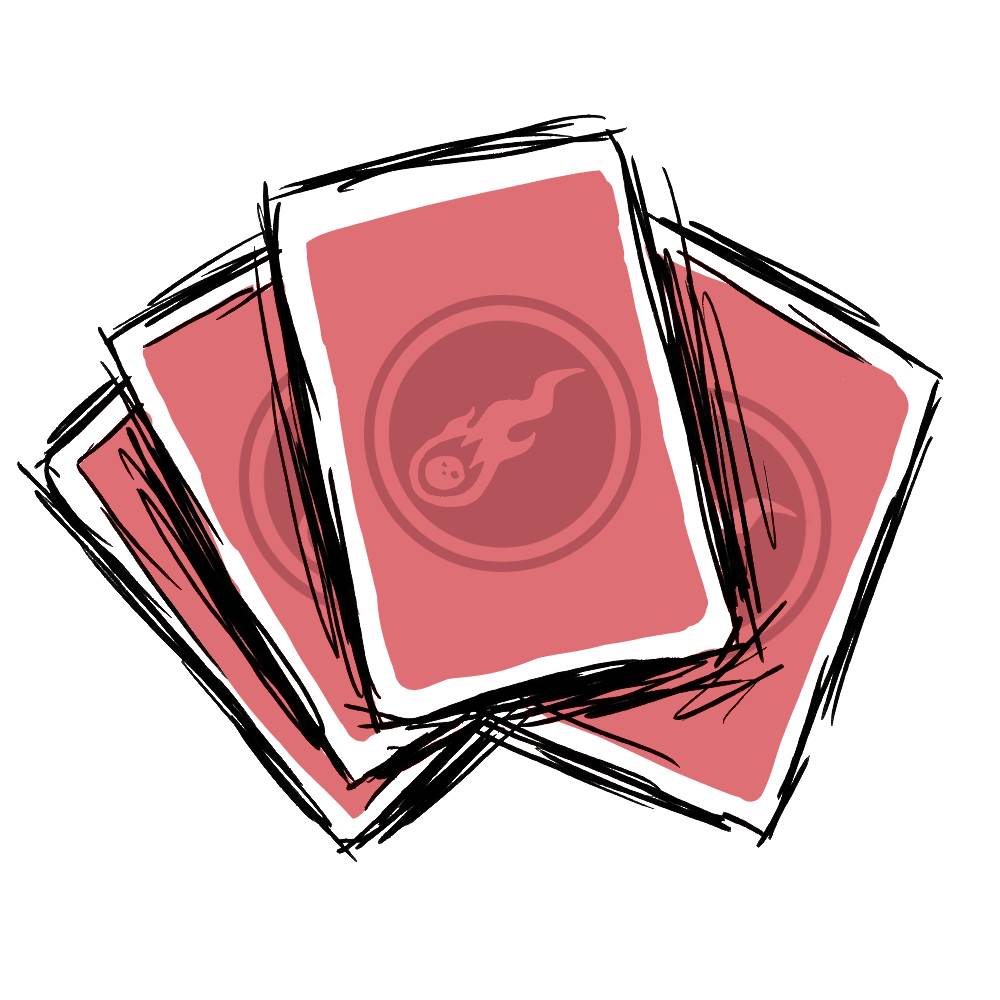
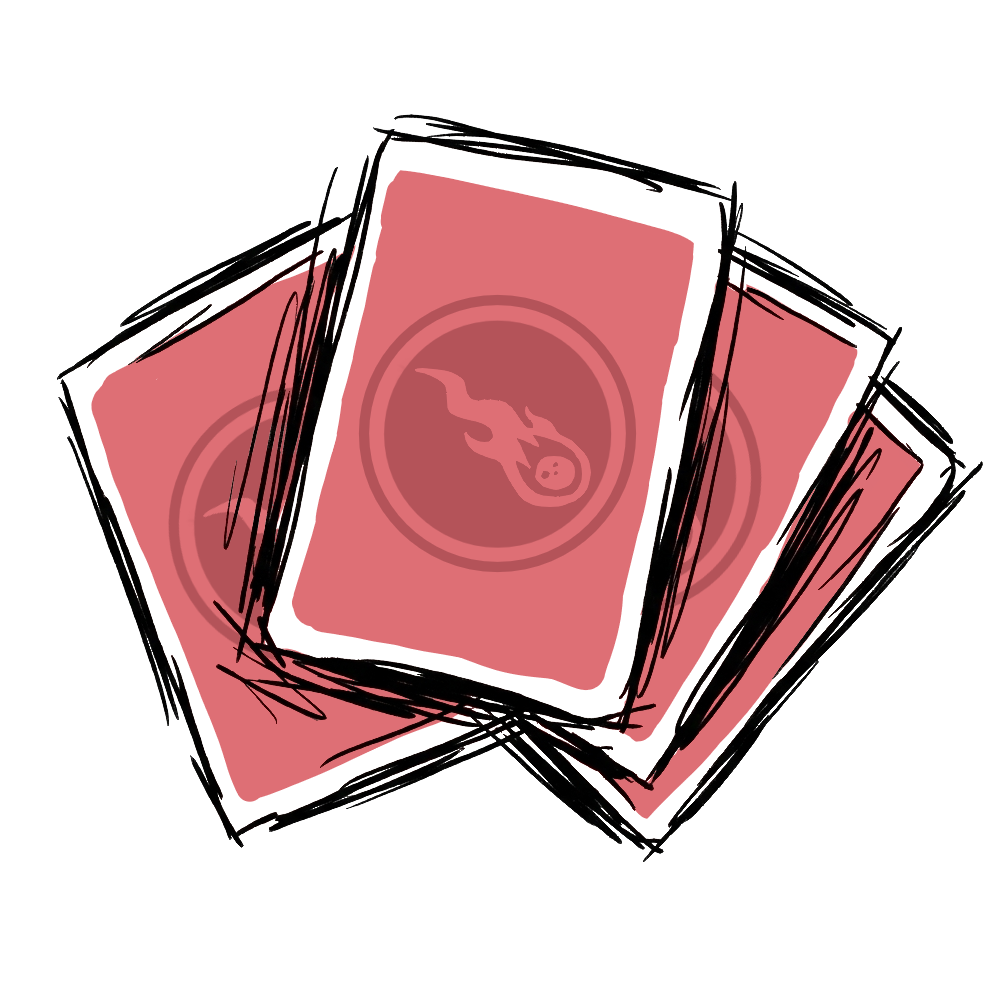
more mobile UI updates

Changed region(s): [[0.031, 0.093, 0.992, 0.868]]

diff --git a/public/css/style.css b/public/css/style.css
@@ -22,7 +22,7 @@ body {
     overflow-x: hidden;
 }
 
-/* Corner Card Graphics - RESTORED DESKTOP STYLING */
+/* Corner Card Graphics - DESKTOP (STAYS AS IS) */
 .chaos-cards {
     position: fixed;
     z-index: 0;
@@ -239,49 +239,46 @@ button, .button, .leave-btn {
     font-size: 1.4rem;
 }
 
-/* MOBILE OVERRIDES */
+/* MOBILE OVERRIDES (Mockup Specific) */
 @media screen and (max-width: 768px) {
-    :root {
-        --font-main: 'Comic Sans MS', 'Comic Sans', 'Chalkboard SE', cursive, sans-serif;
-    }
-
     body {
+        /* Mobile gradient fix */
         background-image: linear-gradient(to right, var(--sketch-red) 50%, var(--sketch-blue) 50%);
         background-attachment: scroll;
     }
 
-    /* MOBILE: Overlap behind logo */
+    /* Target container to allow absolute card positioning relative to logo */
+    .game-container {
+        position: relative;
+        padding: 20px;
+        box-sizing: border-box;
+    }
+
+    /* Cards fan out from behind the logo */
     .chaos-cards {
-        position: absolute; /* Allows them to scroll with content and stay behind logo */
+        position: absolute;
+        z-index: 1; /* Behind logo (z-index 2) but above body */
     }
 
     .p-blue-corner {
-        top: -30px;
-        left: -50px;
-        width: 280px;
+        top: 10px;
+        left: -40px;
+        width: 260px;
         transform: rotate(-15deg);
-        z-index: -1;
     }
 
     .p-red-corner {
-        top: -20px;
-        right: -60px;
-        width: 280px;
+        top: 20px;
+        right: -50px;
+        width: 260px;
         transform: rotate(15deg);
-        z-index: -1;
     }
 
     .logo-big {
-        max-width: 85%;
-        margin-top: 20px;
         position: relative;
         z-index: 2;
-    }
-
-    .game-container {
-        padding: 20px;
-        box-sizing: border-box;
-        width: 100%;
+        max-width: 80%;
+        margin-top: 30px;
     }
 
     .card-editor, .item-card, .badge {
